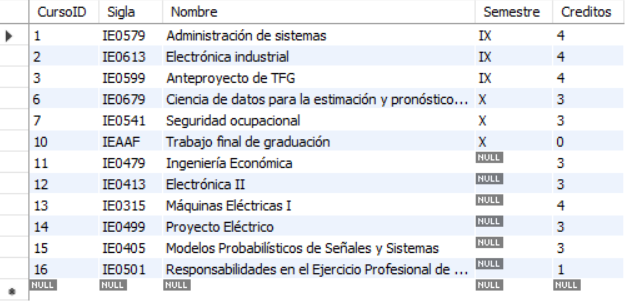
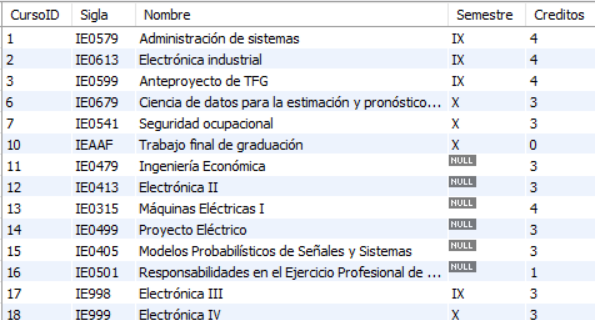
Agregando los 2 cursos inventados

diff --git a/Tareas/Tarea6/README.md b/Tareas/Tarea6/README.md
@@ -200,8 +200,12 @@ VALUES
     (13, 'IE0315', 'Máquinas Eléctricas I', NULL, 4),
     (14, 'IE0499', 'Proyecto Eléctrico', NULL, 3),
     (15, 'IE0405', 'Modelos Probabilísticos de Señales y Sistemas', NULL, 3),
-    (16, 'IE0501', 'Responsabilidades en el Ejercicio Profesional de la Ingeniería Eléctrica', NULL, 1);
+    (16, 'IE0501', 'Responsabilidades en el Ejercicio Profesional de la Ingeniería Eléctrica', NULL, 1)
+    (17, 'IE998', 'Electrónica III', 'IX', 3),
+    (18, 'IE999', 'Electrónica IV', 'X', 3);
 ```
+
+Adicionalmente se le agregaron 2 cursos extra definidos por mi, los cuales corresponden a los CursosID 17 y 18, y estos presentan requisitos
 En la siguiente figura se muestra la tabla con los datos insertados, los valores NULL de la columna semestre se deben a que esos cursos no pertenecen a la licenciatura de ingeniería eléctrica, sino al bachillerato.  
 
 ![alt text](image.png)
@@ -225,9 +229,11 @@ VALUES
     (9, 7, 16),
     (10, 8, NULL),
     (11, 9, NULL),
-    (12, 10, NULL);
+    (12, 10, NULL),
+    (13, 17, 12),
+    (14, 18, 17);
 ```
-En la siguiente figura se muestra la tabla con los datos insertados, los valores NULL de la columna RequisitoCursoID se deben a que esos cursos no poseen requisitos.
+En la siguiente figura se muestra la tabla con los datos insertados, los valores NULL de la columna RequisitoCursoID se deben a que esos cursos no poseen requisitos. Adicionalmente, los cursos con el CursoID 17 y 18 corresponden a los cursos inventados por mi, y en la tabla se muestran sus requisitos.
 
 ![alt text](image-1.png)
 
@@ -257,10 +263,12 @@ VALUES
     (13, 13, 'Se hace énfasis en el análisis en régimen permanente, de los transformadores eléctricos de potencia, y las máquinas de inducción trifásicas.', 'Medio'),
     (14, 14, 'Curso integrador y abierto en su temática, y de aplicación de estrategias de diseño, investigación y solución a un problema en el campo de la ingeniería eléctrica y ramas afines.', 'Dificil'),
     (15, 15, 'Comprensión profunda de los conceptos y técnicas probabilísticas aplicadas al análisis y diseño de sistemas y señales', 'Dificil'),
-    (16, 16, ' Curso teórico por medio del cual el estudiante se prepara para conocer sobre los diversos aspectos de la responsabilidad en el ejercicio profesional', 'Facil');
+    (16, 16, ' Curso teórico por medio del cual el estudiante se prepara para conocer sobre los diversos aspectos de la responsabilidad en el ejercicio profesional', 'Facil'),
+    (17, 17, 'Curso inventado por mi', 'Medio'),
+    (18, 18, 'Curso inventado por mi', 'Dificil');
 ```
-
 En la siguiente figura se muestra la tabla con los datos insertados:  
+
 
 ![alt text](image-2.png)
 
@@ -324,5 +332,6 @@ Figura 7. Resultados de la consulta 4).
 
 
 ## Actualizaciones
+
 
 
